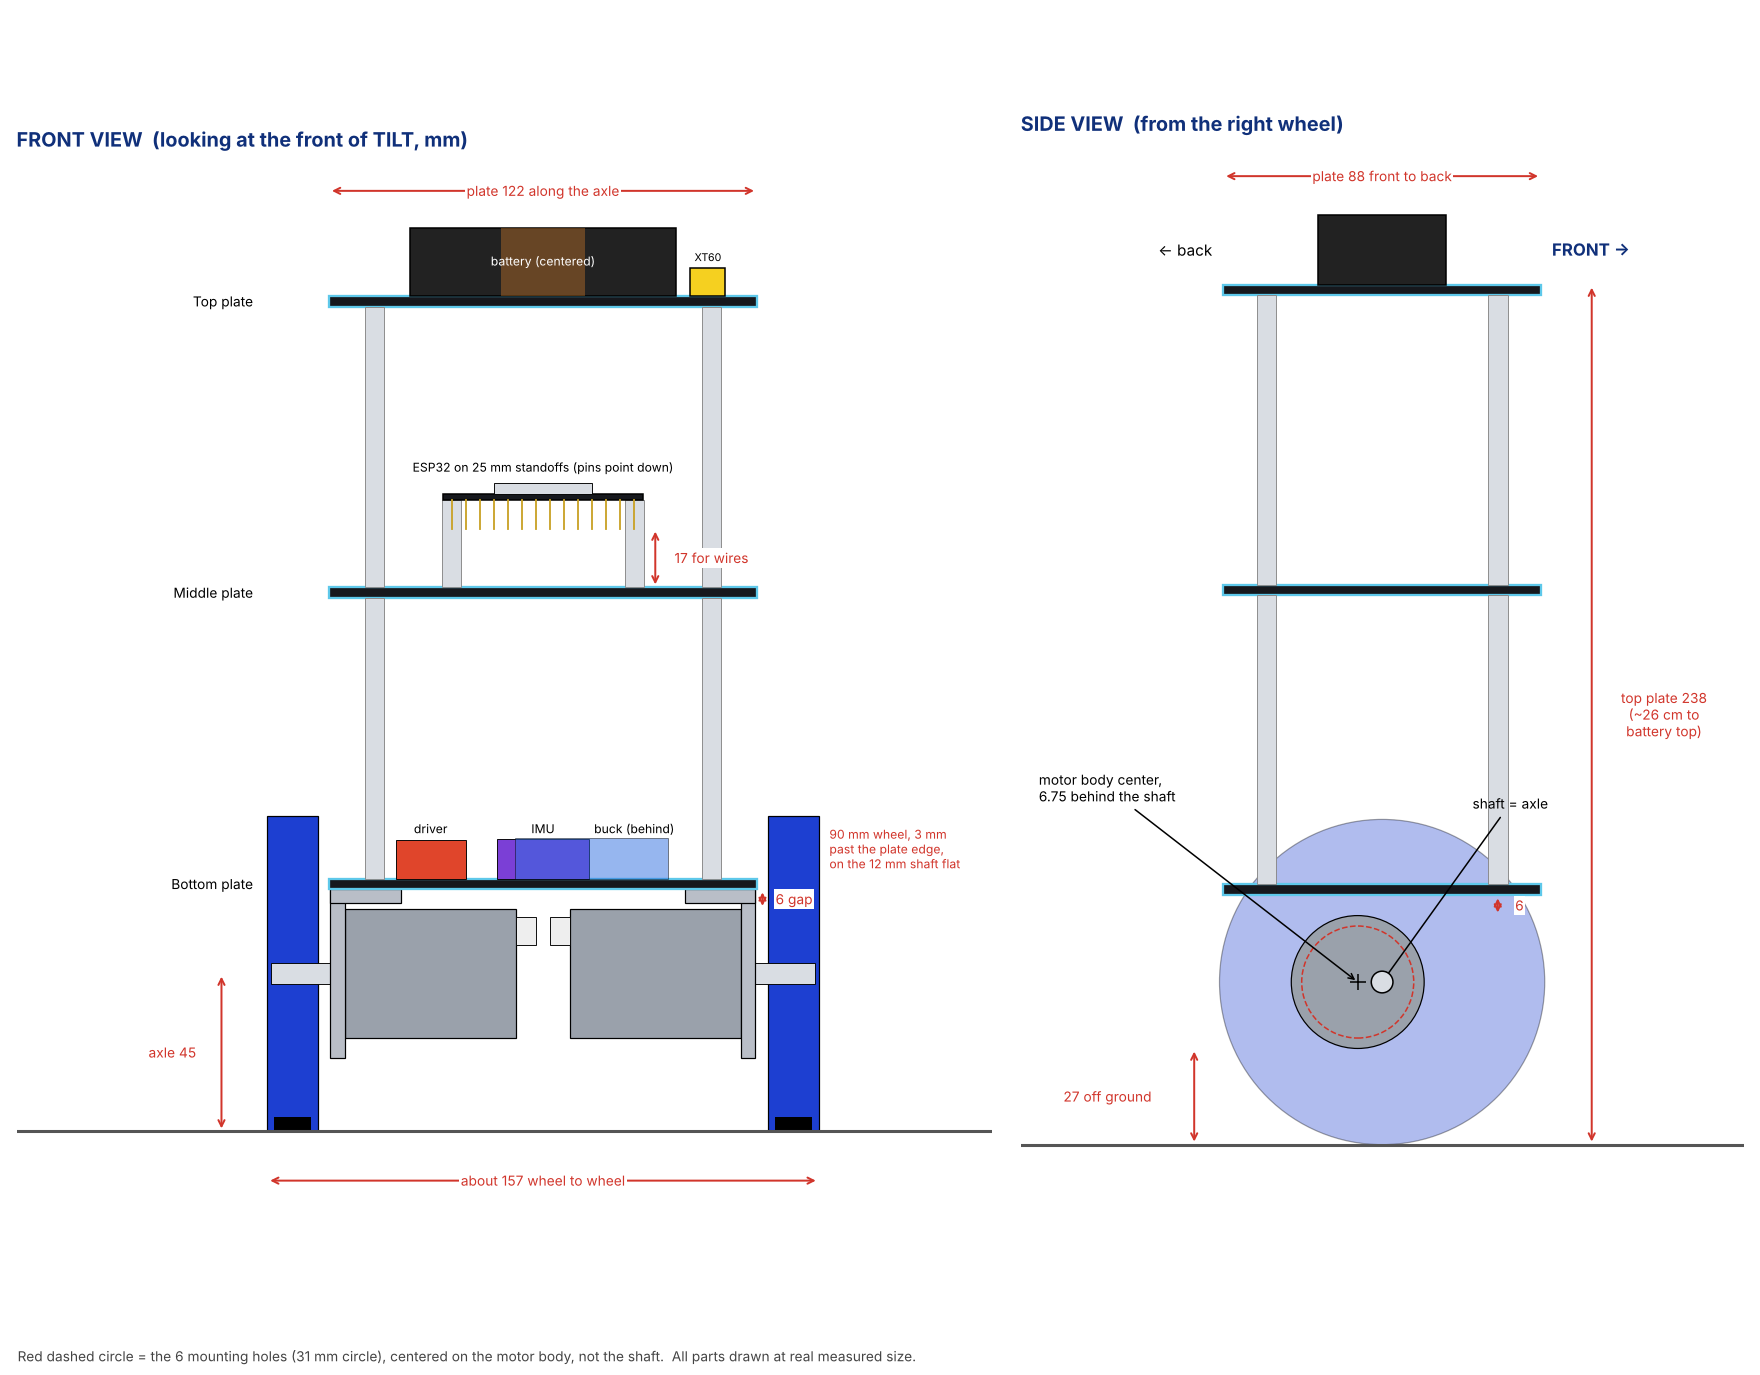
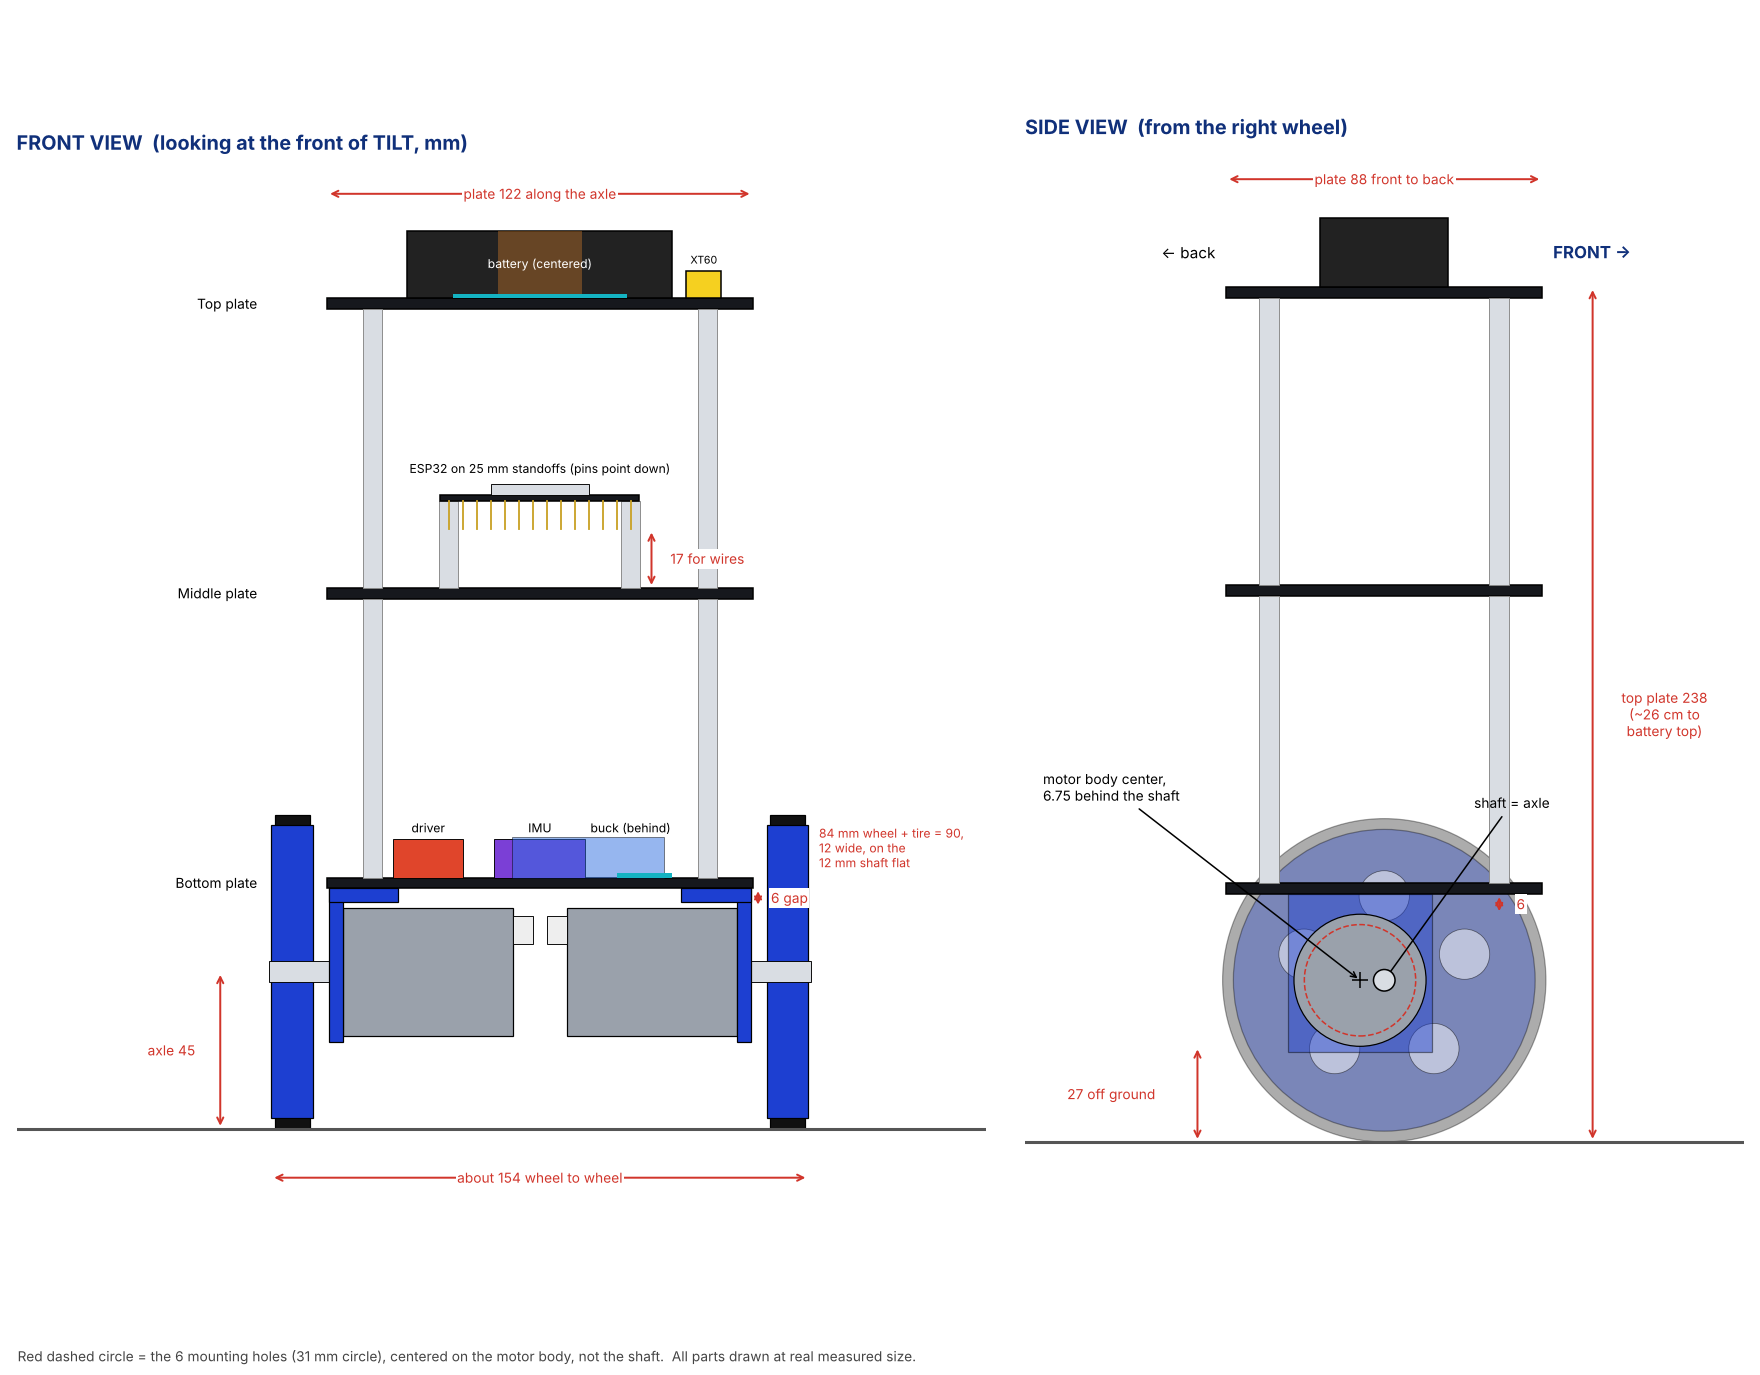
updated images

diff --git a/design/README.md b/design/README.md
@@ -54,6 +54,10 @@ How a motor attaches: an L-shaped mount bolts to the gearbox face, and its tab s
 
 ![Motor mount 3D](images/parts/motor-mount-3d.png)
 
+Top plate up close: the TILT logo reads right when you stand in front of the robot.
+
+![Top plate close-up](images/top-plate-closeup.png)
+
 **Wheels:** 84 mm plastic wheel with a groove around the edge. A tire sits in the groove and brings it to 90 mm. The shaft hole is D-shaped to match the flat on the motor shaft.
 
 **Colors and materials:** plates in black PLA with the raised logo, light bar and arrow in a second color. Wheels and motor mounts in PETG because they take the hits when it falls.
